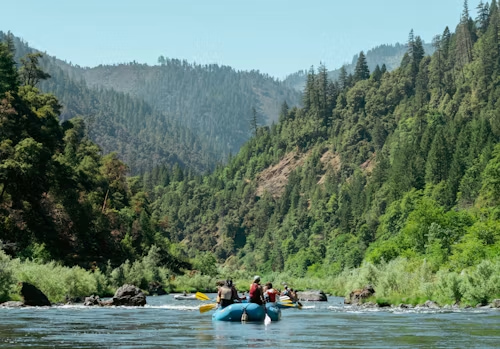
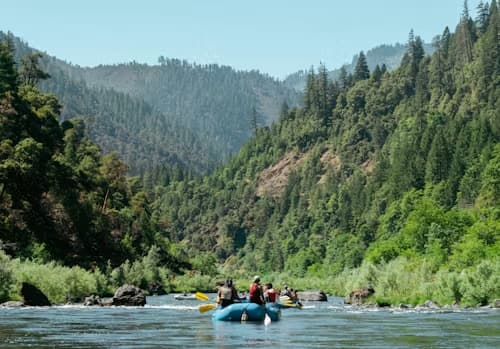
img optimization

Changed region(s): [[0.48, 0.8309, 0.6, 0.8883], [0.39, 0.8309, 0.42, 0.8596]]

diff --git a/wwr/about.html b/wwr/about.html
@@ -30,23 +30,32 @@
             <h1>About Us -- SPLASH: White Water Rafting</h1>
             <article>
                 <img src="images/hero-img/employee-2.jpg" alt="Happy employee">
-                <p>Lorem ipsum dolor sit amet, consectetur adipisicing elit. Reiciendis cupiditate
-                    eum alias, porro laudantium, tempora consequuntur eos maxime, hic quod sapiente
-                    nulla voluptatibus aliquid at fuga facilis? Unde, quia sunt!</p>
+                <p>“Working at Splash has been an incredible experience. Every day I get to meet new
+                    people, share my
+                    passion for rafting, and help our guests discover the excitement of the river.
+                    What I enjoy most is
+                    seeing the smiles on their faces when they finish a trip. For me, Splash is more
+                    than a job; it is a
+                    community built around adventure, teamwork, and respect for nature.”</p>
             </article>
         </div>
         <section class="history">
             <h2>History</h2>
-            <p>Lorem ipsum dolor, sit amet consectetur adipisicing elit. Quibusdam, corporis
-                adipisci odit et labore aspernatur quo sunt aut. Temporibus in quis, vel
-                repellendus suscipit dolore. Lorem ipsum dolor sit amet consectetur adipisicing
-                elit. Sunt, praesentium?</p>
-            <img src="images/hero-img/rafting-history.jpg"
+            <p>Splash: White Water Rafting was founded in 2012 by a group of friends who loved
+                rivers, nature, and
+                outdoor adventures. We wanted to create a place where people could experience the
+                excitement of
+                white-water rafting while enjoying the beauty of the surrounding landscape. And,
+                after some time, we became a popular destination for adventure seekers.</p>
+            <img src="images/hero-img/rafting-history-2.jpg"
               alt="People traversing the waters of history">
-            <p>Lorem ipsum dolor sit amet consectetur adipisicing elit. Placeat dolorem totam
-                numquam atque explicabo tempore asperiores, sed veritatis? Numquam repellendus
-                expedita deserunt doloremque adipisci provident sit? Quod, nulla tempore laborum
-                quibusdam odio iste.</p>
+            <p>Today, Splash: White Water Rafting offers adventures for beginners, families, and
+                experienced
+                rafters. Our professional guides focus on safety, teamwork, and creating
+                unforgettable experiences.
+                We continue to grow while staying true to the values that inspired our founders:
+                adventure,
+                friendship, and respect for nature.</p>
         </section>
         <section>
             <h2>Adventure Awaits You!</h2>

diff --git a/wwr/styles/rafting.css b/wwr/styles/rafting.css
@@ -87,7 +87,7 @@ header nav {
 
 .column1 {
     display: flex;
-    flex-direction: column;
+
 }
 
 .hero {
@@ -119,7 +119,7 @@ header nav {
     position: absolute;
     text-align: left;
     padding: 16px;
-    margin-top: 370px;
+    margin-top: 330px;
     border: 1px solid var(--fourth-color);
     background-color: var(--color-background);
     opacity: 0.9;
@@ -131,8 +131,9 @@ header nav {
 .hero article img {
 
     float: right;
-    width: 100px;
+    width: 150px;
     margin-right: 10px;
+
 }
 
 .paddle {
@@ -316,7 +317,7 @@ footer img {
 
 .fffr {
     display: flex;
-    flex-direction: row;
+    flex-wrap: nowrap;
 }
 
 .homebanner {
